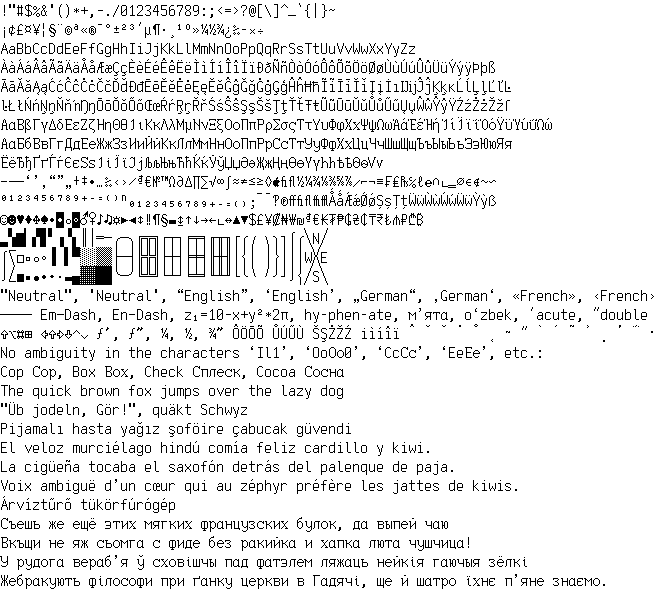
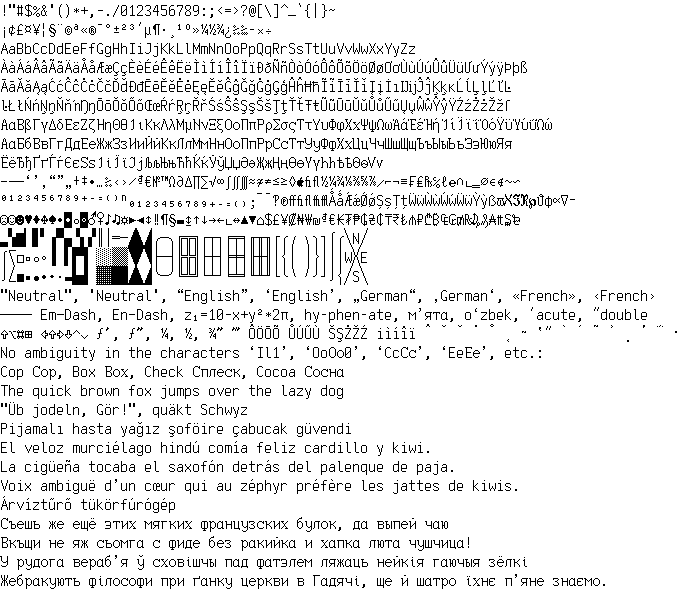
New codepoints

Changed region(s): [[0.0, 0.0, 0.9756, 1.0]]

diff --git a/export.js b/export.js
@@ -119,26 +119,26 @@ function getImage(/** @type {string[]} */ textLines) {
 writeFileSync('./Codescopix.png', getImage(getTableText()));
 writeFileSync('./Example.png', getImage([
     '!\"#$%&\'()*+,-./0123456789:;<=>?@[\\]^_`{|}~',
-    '¡¢£¤¥¦§¨©ª«®¯°±²³´µ¶·¸¹º»¼½¾¿‰\u00AD×÷',
+    '¡¢£¤¥¦§¨©ª«®¯°±²³´µ¶·¸¹º»¼½¾¿‰‱\u00AD×÷',
     'AaBbCcDdEeFfGgHhIiJjKkLlMmNnOoPpQqRrSsTtUuVvWwXxYyZz',
-    'ÀàÁáÂâÃãÄäÅåÆæÇçÈèÉéÊêËëÌìÍíÎîÏïÐðÑñÒòÓóÔôÕõÖöØøÙùÚúÛûÜüÝýÿÞþß',
+    'ÀàÁáÂâÃãÄäÅåÆæÇçÈèÉéÊêËëÌìÍíÎîÏïÐðÑñÒòÓóÔôÕõÖöØøƠơÙùÚúÛûÜüƯưÝýÿÞþß',
     'ĀāĂăĄąĆćĈĉĊċČčĎďĐđĒēĔĕĖėĘęĚěĜĝĞğĠġĢģĤĥĦħĨĩĪīĬĭĮįİıĲĳĴĵĶķĸĹĺĻļĽľĿ',
     'ŀŁłŃńŅņŇňŉŊŋŌōŎŏŐőŒœŔŕŖŗŘřŚśŜŝŞşŠšŢţŤťŦŧŨũŪūŬŭŮůŰűŲųŴŵŶŷŸŹźŻżŽžſ',
     'ΑαΒβΓγΔδΕεΖζΗηΘθΙιΚκΛλΜμΝνΞξΟοΠπΡρΣσςΤτΥυΦφΧχΨψΩωΆάΈέΉήΊίΪϊΐΌόΫϋΎύΰΏώ',
     'АаБбВвГгДдЕеЖжЗзИиЙйКкЛлМмНнОоПпРрСсТтУуФфХхЦцЧчШшЩщЪъЫыЬьЭэЮюЯя',
     'ЁёЂђҐґЃѓЄєЅѕІіЇїЈјЉљЊњЋћЌќЎўЏџӘәҖҗҢңӨөҮүҺһѢѣѲѳѴѵ',
-    '–—―‘’‚“”„†‡•…‰‹›⁄₫€№™Ω∂∆∏∑√∞∫≈≠≤≥◊\uF8FFﬁﬂ½¼¾⅛⅜⅝⅞∕⌐¬≡₣₤₧℅ℓ℮∩∟‗⌀∈∉∼∽',
-    '⁰¹²³⁴⁵⁶⁷⁸⁹⁺⁻⁼⁽⁾ⁿ₀₁₂₃₄₅₆₇₈₉₊₋₌₍₎;‾ˉ‽℗ﬀﬁﬂﬃﬄǺǻǼǽǾǿȘșȚțẄẅẀẁẂẃẄẅỲỳẞ',
-    '☺☻♥♦♣♠•◘○◙♂♀♪♫☼►◄↕‼¶§▬↨↑↓→←∟↔▲▼$£¥₡₦₩₪₫€₭₮₱₲₴₵₸₹₺₼₽₾₿',
-    '▂▚▆▎▞▊▘▗▝▖║│═─╭─╮╔╦╗┌┬┐╒╤╕╓╥╖⎡⎧⎛ ⎞⎫⎤⌠⎧╲N╱',
-    '⌠⎲□▫○◦▐ ▌▀░░▒▒├─┤╠╬╣├┼┤╞╪╡╟╫╢⎢⎨⎜ ⎟⎬⎥⎮⎪W╳E',
-    '⌡⎳■▪●•∙·▬▄▓▓██╰─╯╚╩╝└┴┘╘╧╛╙╨╜⎣⎩⎝ ⎠⎭⎦⌡⎨╱S╲',
-    //TODO: '╱◥▔▁▏▕◤▍▃✓✔✕✖⚠ℹ ⇞⇟🡤🡦⤴⤵⎀⎋␣⌫⌦⇥↩',
+    '–—―‘’‚“”„†‡•…‰‹›⁄₫€№™Ω∂∆∏∑√∞∫∬∭≈≉≠≤≥◊\uF8FFﬁﬂ½¼¾⅛⅜⅝⅞∕⌐¬≡₣₤₧℅ℓ℮∩∟‗⌀∈∉∼∽',
+    '⁰¹²³⁴⁵⁶⁷⁸⁹⁺⁻⁼⁽⁾ⁿ₀₁₂₃₄₅₆₇₈₉₊₋₌₍₎;‾ˉ‽℗ﬀﬁﬂﬃﬄǺǻǼǽǾǿȘșȚțẄẅẀẁẂẃẄẅỲỳẞϖℵℑℜ℘ϑϕ∝∇−',
+    '☹☺☻♥♦♣♠•◘○◙♂♀♪♫☼►◄↕‼¶§▬↨↑↓→←∟↔▲▼⌂$£¥₡₦₩₪₫€₭₮₱₲₴₵₸₹₺₼₽₾₿₠₢₥₨₯₰₳₶₷₻',
+    '▂▚▆▎▊▘▗▀▄▝▖▞║│═─◢◣◢╭─╮╔╦╗┌┬┐╒╤╕╓╥╖⎡⎧⎛ ⎞⎫⎤⌠⎧╲N╱',
+    '⌠⎲□▫○◦▐ ▌▛▜ ░░▒▒◥◤◥├─┤╠╬╣├┼┤╞╪╡╟╫╢⎢⎨⎜ ⎟⎬⎥⎮⎪W╳E',
+    '⌡⎳■▪●•∙·▬▙▟ ▓▓██◢◣◢╰─╯╚╩╝└┴┘╘╧╛╙╨╜⎣⎩⎝ ⎠⎭⎦⌡⎨╱S╲',
+    //TODO: '▔▁▏▕▍▃✓✔✕✖⚠ℹ ⇞⇟🡤🡦⤴⤵⎀⎋␣⌫⌦⇥↩',
     //TODO: Mac OS Symbol/Font X
-    //'∠⊗⊕∅⏐⎯↵ϒ⊥ϖℵℑℜ℘ϑϕ∝∇∴⎷√╲╱⌟≃⎼␤⋅∪⊃⊂∧∨⇔⇐⇑⇒⇓⊇⊄⊆⟨⟩',
+    //'∠⊗⊕∅⏐⎯↵ϒ⊥∴⎷√⌟≃⎼␤⋅∪⊃⊂∧∨⇔⇐⇑⇒⇓⊇⊄⊆⟨⟩',
     '"Neutral", \'Neutral\', “English”, ‘English’, „German“, ‚German‘, «French», ‹French›',
     '―――― Em—Dash, En–Dash, z₁=10-x+y²*2π, hy‐phen‐ate, мʼята, oʻzbek, ´acute, ˝double',
-    '⇧⌥⌘⊞ ⇦⇧⇨⇩⌃⌄ ƒ′, ƒ″, ¼, ½, ¾″ ÔÖŌÕ ŮÚŰÙ ŠŞŻŽŹ iìíîï ˆ ˇ ˘ ˙ ˚ ˛ ˜ ˝ ̀ ́ ̃ ̉ ̣ ΄ ΅ ·',
+    '⇧⌥⌘⊞ ⇦⇧⇨⇩⌃⌄ ƒ′, ƒ″, ¼, ½, ¾″ ‴ ÔÖŌÕ ŮÚŰÙ ŠŞŻŽŹ iìíîï ˆ ˇ ˘ ˙ ˚ ˛ ˜ ‛˝ ̀ ́ ̃ ̉ ̣ ΄ ΅ ·',
     'No ambiguity in the characters ‘Il1’, ‘OoОо0’, ‘CcСс’, ‘EeЕе’, etc.:',
     'Cop Сор, Box Вох, Check Сплеск, Cocoa Сосна',
     'The quick brown fox jumps over the lazy dog',
